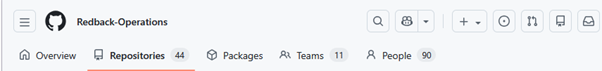
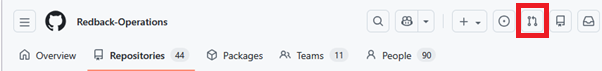
Adding images to .md files

Changed region(s): [[0.8372, 0.0282, 0.9269, 0.5352]]

diff --git a/docs/cybersecurity/SecDevOps Team/Onboarding/Code Reviews/The GitHub UI.md b/docs/cybersecurity/SecDevOps Team/Onboarding/Code Reviews/The GitHub UI.md
@@ -2,52 +2,72 @@
 sidebar_position: 3
 ---
 
-## The GitHub UI
+# The GitHub UI
 
 This section provides guidance on how to work with the GitHub user interface. It’s intended to help new members understand how the code review process works by describing the key tabs and actions within a pull request.
-Finding pull requests
+
+## Finding pull requests
 
 Before reviewing code, you first need to open the pull requests. Pull requests can be found either in your assigned review requests which can be found in the headers navigation menu which is highlighted below.
 
+![Repo Header PR Button](code-review-imgs/github-ui-imgs/repo-header.png)
+
 Alternatively, you can find review requests in each individual repository under that repositories pull requests. As seen in the image, there are two pull requests in the redback operations senior mobile repository.
+
+![Repo Overview](code-review-imgs/github-ui-imgs/individual-repo.png)
 
 Once you have a repo opened, you can start the review process by opening any of the currently available review requests. If you need to filter to see what pull requests require reviewing, then you can apply the necessary filter from the header.
 
-After opening a pull request, you can see all details of the chosen request. This includes the authors name, any comments left, checks made via GitHub Actions, and what the exact changes to the files were.
- 
+![PR Filter](code-review-imgs/github-ui-imgs/pr-filter.png)
 
+After opening a pull request, you can see all details of the chosen request. This includes the authors name, any comments left, checks made via GitHub Actions, and what the exact changes to the files were.
+
+![PR Header](code-review-imgs/github-ui-imgs/pr-header.png)
+ 
 ## Reading Comments
 
 To start the review process, it’s recommended you read and understand any comments made by the requesting user, as this will help you understand what the changed being made are.
 
+![Comment Example](code-review-imgs/github-ui-imgs/comment-header.png)
+
 As seen in the example above, comments can be found in the conversations tab and show the full workflow of the pull request once it reaches this stage of development.
+
 In some cases, there will be output in the comments from the GitHub-actions bot, which outputs information based on what type of file you’re reviewing. For python files, the Bandit Scanner is used to check for Common Vulnerabilities and Exposures (CVEs) that can leave the code vulnerable. This will be touched on in a later step, as it isn’t fully relevant to all code files in the redback repository.
+
+![Action Output](code-review-imgs/github-ui-imgs/actions-output.png)
 
 ## Commits
 
 To get an overview of what’s been changed over time, you can view the commits tab in a pull request. In here you can see all changes made in the pull request in chronological order.
 
+![Commits Overview](code-review-imgs/github-ui-imgs/commits-overview.png)
+
 Each commit shows a set of changes made by the author at a specific point in time. Reviewing commits allows you to see how the assets in the pull request have changed over time when compared to the result.
 While the commits tab isn’t a necessary feature for completing code reviews, since reviews are generally carried out in the files changed tab, it can help you:
-
-* Understand the progression of changes
-* Find when specific updates, fixes or changes were introduced
+- Understand the progression of changes
+- Find when specific updates, fixes or changes were introduced
 
 Seeing how the commits have changed over a period can provide useful context when trying to understand what issues have already been addressed during earlier iterations of the code.
  
-
 ## Checks
 
 The checks tab is used to show the status of various integrated, automated checks, test and other verifications that run against the chosen pull request. These checks include continuous integration builds, automated tests and verification processes, security scans and other automated checks that may be included in the organisation’s development pipeline.
 
+![Checks Overview](code-review-imgs/github-ui-imgs/checks-overview.png)
+
 The results show whether each of the automated checks is in progress, successful, or has failed. Before a pull request can be merged to the main branch, it must pass all the chosen checks to meet Redback Operations compliance and quality standards.
 
 When a check is successful, it simply displays a tick and moves on to the next part of the process. However, when a check fails, it will post logs as to what’s happened and will give details that can be expanded to identify what went wrong, and what must be fixed.
- 
+
+![Check Details](code-review-imgs/github-ui-imgs/detailed-checks.png) 
 
 ## Files Changed
 
-The files changed tab is one of the most important tools used in a code review by the SecDevOps team. It shows a detailed comparison between the base branch of the repository and the proposed changes in the pull request. As a result, this is where most of the work for code reviews happen, as it’s where we view changes made, and manually review the code to find potential security or compliance issues.
+The files changed tab is one of the most important tools used in a code review by the SecDevOps team. It shows a detailed comparison between the base branch of the repository and the proposed changes in the pull request. 
+
+As a result, this is where most of the work for code reviews happen, as it’s where we view changes made and manually review the code to find potential security or compliance issues.
+
+![Files Changed](code-review-imgs/github-ui-imgs/files-changed-overview.png)
 
 In this view, you can see exactly what was added, removed or otherwise modified from all files in the pull request. Sections of code highlighted in green show what’s been added to the file, while sections highlighted in red show what has been removed from the file.
 
@@ -55,9 +75,17 @@ This tab also features several useful tools you can use throughout the code revi
 
 The ability to comment directly on any changed line by hovering over the line and pressing the blue plus icon. This allows you to provide context on any concerning lines of code, as well as ask questions with a direct reference to what you need clarity on.
 
+![Inline Comments](code-review-imgs/github-ui-imgs/inline-commenting.png)
+
 Mark files as viewed using the checkmark at the top of the file. This allows you to collapse the file, making it easier to find what you have viewed and what you still need to review. This is especially useful when working on pull requests with many files.
+
+![Viewed Files](code-review-imgs/github-ui-imgs/viewed-files.png)
 
 Using the settings, you can change the view type from unified to split. Unified simply shows all the changes stacked on top of the original file, while split shows them side by side with one side showing the original file state, and the other showing the changes, allowing you to more easily see what’s been changed.
 
+![Changing Views](code-review-imgs/github-ui-imgs/view-type.png)
+
 Finally, using the filter options you can filter the files by type or by certain files based on the file tree. This allows you to see all files of different types, as well as how many of that type are in the pull request.
+
+![File Filter](code-review-imgs/github-ui-imgs/file-filter.png)
 

diff --git a/docs/cybersecurity/SecDevOps Team/Onboarding/Code Reviews/Performing a Code Review.md b/docs/cybersecurity/SecDevOps Team/Onboarding/Code Reviews/Performing a Code Review.md
@@ -2,53 +2,74 @@
 sidebar_position: 4
 ---
 
-## Performing a Code Review:
+# Performing a Code Review
  
 This section describes in detail how to perform a code review. To help ease new members into the process of reviewing code on company repositories, it will attempt to break things down in a simple, easy to follow set of steps. 
 
-## Find open pull requests:
+## Find open pull requests
 
 To start reviewing code, first you need to open a repository with open pull requests. Start by looking through the company repositories to find any with open pull requests, as some of the older requests won’t show in your pull request tab. 
 
 Take time to look over what type of code is in each repository, as some use different languages. Shown here, the Redback Senior Tech repository uses Jupyter Notebooks and currently contains 9 pull requests. 
+
+![Finding PRs](code-review-imgs/performing-reviews-imgs/find-prs.png)
  
-## Open the pull request and view initial details:
+## Open the pull request and view initial details
 
 After opening your chosen pull request, take some time to view the initial context and changes documented by the author of the request. These comments can provide useful information when understanding what their code is doing. 
+
+![Viewing Comments](code-review-imgs/performing-reviews-imgs/view-comments.png)
  
-## View GitHub Action output:
+## View GitHub Action output
 
 If applicable to the type of file you’re reviewing, take some time to view the output added to the conversation tab by the actions bot. For the case of python files, the Bandit security scanner can provide necessary context for whether further changes are needed to make a file compliant with the company’s security policy. 
+
+![Github Actions Bot](code-review-imgs/performing-reviews-imgs/view-action-output.png)
  
 Take into consideration whether it’s flagged any high security or critical vulnerabilities, as well as what the scanners confidence, or the likelihood, of that vulnerability being present is. The output generally will tell you if any critical issues were found as seen in the example below. 
+
+![Bandit Output](code-review-imgs/performing-reviews-imgs/view-action-output2.png)
  
 For any other files, make sure you view the output the actions bot shows for the general pull request checks as well. These will be covered in more detail in a later step, but it’s good to see if there are issues with the files in the pull requests.
  
 As seen here, this request requires manual review and validation as the Pull Request Checks have failed. 
+
+![Checks Overview](code-review-imgs/performing-reviews-imgs/checks-overview.png)
   
-## View the checks tab:
+## View the checks tab
 
 Once you’ve looked over the conversations tab, look through the checks tab to view any logs generated by the automated security and pull request checks, these can provide valuable information on what needs changing in the file. 
+
+![Viewing Checks](code-review-imgs/performing-reviews-imgs/view-checks.png)
  
 Viewing the logs step by step shows you the code being run against the security checks, in general this information won’t be important unless the code has failed the check. The results can be viewed in the comments posted by the GitHub-actions bot in the conversations tab as seen in the previous steps. 
 
+![Check Logs](code-review-imgs/performing-reviews-imgs/detailed-checks.png)
+
 Likewise, look over any pull request checks as they show you whether the file is compliant with the companies naming conventions for files and variables. In general, it’s good practice for all files to comply with this standard, and the pull request shouldn’t be merged until these issues are resolved. 
+
+![PR Checks](code-review-imgs/performing-reviews-imgs/pr-checks.png)
  
 Sometimes if the pull request is too old, the checks can expire. In cases like this there isn’t much that can be done, so it’s best to review these older files manually and check them against the company policies on best coding practices, as well as consider any output posted by the bandit scanner in the comments section.
  
-## Manually review the files:
+## Manually review the files
 
 Having looked through all checks, now it’s time to view the files themselves. Looking through the file manually, it’s our job to ensure there are no major security flaws that the scanner hasn’t picked up on.
 
-In general, we want to ensure there are no hardcoded credentials, API keys being shown, or other bad practices that may lead to security issues or potential exploits. 
+In general, we want to ensure there are no hardcoded credentials, API keys being shown, or other bad practices that may lead to security issues or potential exploits. Further information on what to look out for can be found in the Best Code Practices section of the documentation. 
 
 At any point, if there’s a line of code you need further clarification on from the author, or if there is any potential issue you’ve flagged, add an in-line comment using the plus button and leave a question for the author of the code. 
 
 Once you’ve finished viewing one of the files, make sure you tick the viewed checkbox to collapse the view and keep track of what files you’ve seen. 
+
+![Viewed Files](code-review-imgs/performing-reviews-imgs/viewed-files.png)
   
 When you’ve finished reviewing the code, click on the button to review the changes. If the code is compliant and meets Redback Operations standards, meaning there are no critical security vulnerabilities and no compliance issues, then you may submit the approval. 
+
+![Approving Reviews](code-review-imgs/performing-reviews-imgs/approving-review.png)
  
 If you need extra context for something before deciding that you want to request changes or approve the pull request, then the comment option should be used. This allows you to submit general feedback and ask questions to get a better understanding of the authors intent. 
 
 In any other case, if there are issues with the code such as compliancy problems the scans have found, or major security flaws such as hardcoded credentials or visible API keys, then you must request the author makes changes. Leave a comment describing what needs fixing and submit the review using the request changes option.  
- 
+
+![Requesting Changes](code-review-imgs/performing-reviews-imgs/requesting-changes.png) 

diff --git a/docs/cybersecurity/SecDevOps Team/Onboarding/GitHub/GitHub Introduction.md b/docs/cybersecurity/SecDevOps Team/Onboarding/GitHub/GitHub Introduction.md
@@ -1,41 +1,47 @@
 ---
-sidebar_position: 1
----
 
-## What is GitHub? 
+## sidebar\_position: 1
 
-GitHub is a cloud-based web platform used to host Git repositories. Through it, members of Redback Operations can store, manage and collaborate on their companies’ repositories. 
+# What is GitHub?
 
-GitHub provides users with an environment that supports: 
-- Version control that tracks changes made to code. 
-- Collaborative tools where multiple users can work on a project at the same time.
-- Project management tools for detecting issues, pull requests, code reviews and merging changes. 
+GitHub is a cloud-based web platform used to host Git repositories. Through it, members of Redback Operations can store, manage and collaborate on their companies’ repositories.
+
+GitHub provides users with an environment that supports:
+
+* Version control that tracks changes made to code.
+* Collaborative tools where multiple users can work on a project at the same time.
+* Project management tools for detecting issues, pull requests, code reviews and merging changes.
 
 Additionally, GitHub also provides the following features which are used in the development pipeline:
-- Repositories where code and relevant files are stored for projects. 
-- Branching which allows for work to be carried out on different versions of a project
-- Pull requests (PR) allows users to propose, review and approve code changes
-- Issues which are used to track tasks, bugs and improvements. 
-- Actions which allow for automating workflows, as well as testing and security checks.
 
-Redback Operations makes use of these features, with repositories for each project and team, as well as actions that automate parts of the development process or allow for security scanning on specific files. 
+* Repositories where code and relevant files are stored for projects.
+* Branching which allows for work to be carried out on different versions of a project
+* Pull requests (PR) allows users to propose, review and approve code changes
+* Issues which are used to track tasks, bugs and improvements.
+* Actions which allow for automating workflows, as well as testing and security checks.
 
-## Why do we use GitHub? 
+Redback Operations makes use of these features, with repositories for each project and team, as well as actions that automate parts of the development process or allow for security scanning on specific files.
 
-GitHub is used across Redback Operations to store, manage and collaborate on project code across various repositories. 
+## Why do we use GitHub?
 
-For SecDevOps GitHub is the main tool used by the team, allowing members to carry out code reviews, manage pull requests and ensure secure development practices are being followed. The team uses it to track code changes on all repositories, review pull requests, verify security scan results from bandit, and ensure any changes to code are compliant with security standards before changes are accepted and the code is moved further along the development pipeline. 
+GitHub is used across Redback Operations to store, manage and collaborate on project code across various repositories.
+
+For SecDevOps GitHub is the main tool used by the team, allowing members to carry out code reviews, manage pull requests and ensure secure development practices are being followed. The team uses it to track code changes on all repositories, review pull requests, verify security scan results from bandit, and ensure any changes to code are compliant with security standards before changes are accepted and the code is moved further along the development pipeline.
  
+
 ## How to access the Redback GitHub repo
 
-To access the Redback GitHub repo use the following link: 
+To access the Redback GitHub repo use the following link:
 
 https://github.com/Redback-Operations
 
 Without access to the SecDevOps team permissions, people who visit the site will simply have access to the public facing repositories and their files. Limited access to the sites content is allowed for visitors.
- 
-To access the tools and actions necessary for the SecDevOps team you first need to be invited to the Redback Operations Organisation as a member of the team. 
 
-Your team mentor can give you access via an email link sent to the email attached to your GitHub account, you have a limited amount of time to accept the link so make sure you do so as soon as possible.  Shown below is an example of what that invitation looks like. 
- 
-Once you’re in the organisation you have access to the tools and processes used by the SecDevOps team and can view pull requests, perform code reviews and view GitHub actions. 
+To access the tools and actions necessary for the SecDevOps team you first need to be invited to the Redback Operations Organisation as a member of the team.
+
+Your team mentor can give you access via an email link sent to the email attached to your GitHub account, you have a limited amount of time to accept the link so make sure you do so as soon as possible.  Shown below is an example of what that invitation looks like.
+
+![GitHub Invite](github-imgs/github-intro-imgs/github-invite.png)
+
+Once you’re in the organisation you have access to the tools and processes used by the SecDevOps team and can view pull requests, perform code reviews and view GitHub actions.
+

diff --git a/docs/cybersecurity/SecDevOps Team/Onboarding/GitHub/Making Changes.md b/docs/cybersecurity/SecDevOps Team/Onboarding/GitHub/Making Changes.md
@@ -9,23 +9,37 @@ This document covers how to make changes to files using the Git system.
 ## Git Status
 
 After any changes have been made to the local file system of the fork or current working branch, you can track the changes by using the git status command. 
+
+![Git Status](github-imgs/making-changes-imgs/git-status1.png)
  
 As shown, this provides information on what’s been modified and what commands you can use to update the forked repository.
 
 ## Adding Changes
  
-To add these changes to the repository on your namespace, you first need to use the git add command to add the changes to the next commit. Shown here, I used the git add command to add the appropriate changes to the next commit. 
+To add these changes to the repository on your namespace, you first need to use the git add command to add the changes to the next commit. Shown here, I used the git add command to add the appropriate changes to the next commit.
+
+![Git Add](github-imgs/making-changes-imgs/git-add.png)
 
 ## Git Commit and Git Push
  
 Once any changes have been added, the git commit command can be used to commit those changes to the staging area of the forked repository. When adding commits to any repository it’s good practice to add a concise message describing the work being done. To achieve this, the -m switch can be used. 
+
+![Git Commit](github-imgs/making-changes-imgs/git-commit.png)
  
 Running the command will push this commit to the forked repository. Running git status again will show you are one commit ahead of the main branch, or more if other commits are in the stream. The final step to adding these changes is to push the changes from the staging branch to the forked repository. This is simply done using the git push command. 
+
+![Git Status and Push](github-imgs/making-changes-imgs/git-status-push.png)
  
 Once this command is run you may be asked to provide your username and password for your github account tied to the company repository. Enter these details when asked so you can push the changes to your namespace. 
+
+![Git Sign In](github-imgs/making-changes-imgs/git-signin.png)
 
 ## Checking the Repository
  
 Once you have the correct account signed in, the changes will push to your forked repository. The info shown here will include the number of files modified, as well as what repository is being updated. 
+
+![Git Push Output](github-imgs/making-changes-imgs/git-push.png)
  
 Checking the forked repository shows the changes made have been added correctly.
+
+![Git Status](github-imgs/making-changes-imgs/checking-repo.png)

diff --git a/docs/cybersecurity/SecDevOps Team/Onboarding/GitHub/Forking Repositories.md b/docs/cybersecurity/SecDevOps Team/Onboarding/GitHub/Forking Repositories.md
@@ -2,17 +2,26 @@
 sidebar_position: 2
 ---
 
-## Creating Forks 
+# Creating Forks 
 
 A fork is a personal copy of a repository. Forks are used if you need to make changes to a project without modifying the original repository directly. Most users in Redback Operations will need to rely on forks to add files and propose changes to the existing files on the repositories.
  
 For cases where you may need to make changes to security configurations, add new files to the repository or test updates and security fixes, forks can make it easier to work with the repository as it allows you to make changes using your preferred local environment. 
 
 To create a fork of an existing repository, simply navigate to the repo, click the fork drop down button and create a new fork.
+
+![Fork Dropdown](github-imgs/forks-imgs/fork-dropdown.png)
  
 As shown here, this gives you a fork on your own local account.
+
+![Forked Repo](github-imgs/forks-imgs/forked-repo.png)
  
 Before working on the forked repository, it’s good practice to clone it to your local machine. Cloning creates a local copy of the repository on your machine allowing you to edit files, create branches and commit changes using development tools such as the git command line interface or and IDE. 
-Cloning the fork is easy to do. From the forked repository click the code button as seen below and copy the URL. 
+
+Cloning the fork is easy to do. From the forked repository click the code button as seen below and copy the URL.
+
+![Clone Link](github-imgs/forks-imgs/clone-link.png) 
  
 Once copied you can paste the link into the Git command line tool, or your development tool of choice to clone it to your local machine using the git clone command. 
+
+![Clone Command](github-imgs/forks-imgs/clone-command.png)

diff --git a/docs/cybersecurity/SecDevOps Team/Onboarding/GitHub/Branching.md b/docs/cybersecurity/SecDevOps Team/Onboarding/GitHub/Branching.md
@@ -23,8 +23,12 @@ To this end, we can make use of branches to perform different changes to scanner
 ## How to Create a Branch:
 
 Branches can be created from the GitHub website. To do this, open the forked repository and click the branches drop down menu. 
+
+![Branch Dropdown](github-imgs/branching-imgs/branch-dropdown.png)
  
 From here, select view all branches, then new branch. 
+
+![Creating Branches](github-imgs/branching-imgs/creating-branches.png)
  
 Create a name for the branch, and choose what source repository and branch you want to branch off from. 
 
@@ -33,7 +37,13 @@ Once done, press the button to create a new branch.
 ## How to Change Branches:
 
 Changing branches can be done from the command line. First once a new branch has been created you may need to update the local repository with all new branches using the git fetch origin command
+
+![Fetch Command](github-imgs/branching-imgs/fetch-command.png)
  
 Once done, the created branches will show in the output so long as this command has been run after their creation. Changing branches can be done with the git checkout command as seen in the below example. 
+
+![Checkout Command](github-imgs/branching-imgs/checkout-command.png)
  
-To see what branch you are on, the git branch command is used. The branch with the asterisk is the current branch. 
+To see what branch you are on, the git branch command is used. The branch with the asterisk is the current branch.
+
+![Branch Command](github-imgs/branching-imgs/branch-command.png) 

diff --git a/docs/cybersecurity/SecDevOps Team/Onboarding/GitHub/Pull Requests.md b/docs/cybersecurity/SecDevOps Team/Onboarding/GitHub/Pull Requests.md
@@ -21,9 +21,15 @@ When updating files or performing maintenance for SecDevOps tools, it’s import
 ## Creating Pull Requests
 
 Creating a pull request can easily be done from the GitHub website. Navigating to your forked repository, simply click the contribute button on the header.
+
+![Opening PRs](github-imgs/pull-requests-imgs/pr-dropdown.png)
  
-Opening the pull request takes you to this screen which allows you to compare changes, see what work is being moved from the forked repository to the main one, and let’s you add a title to your work as well as description of what you’ve done.
+Opening the pull request takes you to this screen which allows you to compare changes, see what work is being moved from the forked repository to the main one, and lets you add a title to your work as well as description of what you’ve done.
+
+![Editing PRs](github-imgs/pull-requests-imgs/editing-pr.png)
  
 To finalise the changes here, simply add a title and describe what the work in your pull request is doing, then click the create pull request button.
 
 As shown here, the pull request is then opened and can be viewed by other members of the SecDevOps team. You should not perform the review on your own files, allow any reviews to be made by another member.
+
+![Open PR](github-imgs/pull-requests-imgs/open-pr.png)

diff --git a/docs/cybersecurity/SecDevOps Team/Onboarding/Code Reviews/Code Review Introduction.md b/docs/cybersecurity/SecDevOps Team/Onboarding/Code Reviews/Code Review Introduction.md
@@ -15,8 +15,12 @@ The reason the SecDevOps team reviews code is to help address these issues early
 
 As a member of SecDevOps you can access code reviews through the company GitHub. This can be done from the repository screen by accessing pull requests, or it can be done by looking at tasks assigned to you through GitHub’s notifications for more recent requests. 
 
-To access them through the repository screen, simply open the pull requests as seen below:
+To access them through the repository screen, simply open the pull requests using the rightmost button as seen below:
+
+![PR Button](code-review-imgs/code-review-intro-imgs/finding-prs.png)
  
 This will take you to all the current open requests for that repository
+
+![PR List](code-review-imgs/code-review-intro-imgs/viewing-prs.png)
  
 The code review process is further broken down in the next modules. 
